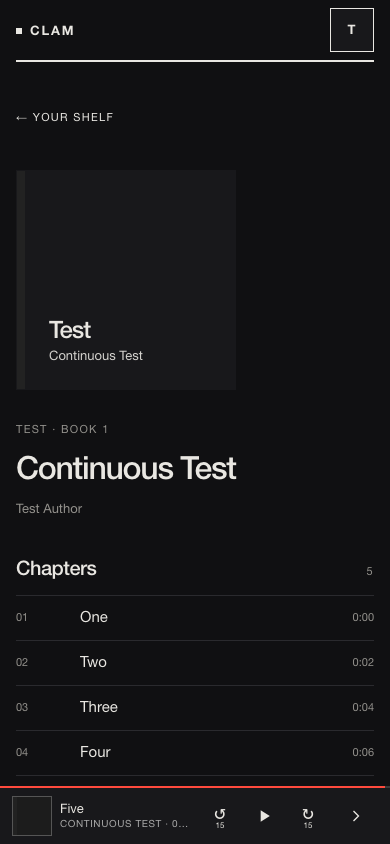
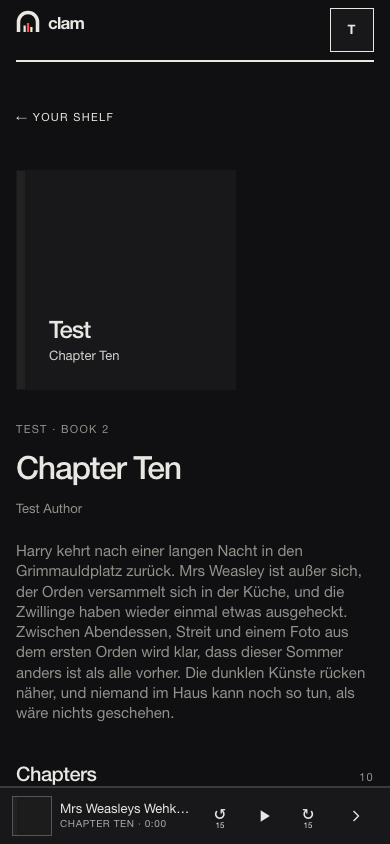
Fold book description and chapter list

diff --git a/clam-web/src/pages/Book.tsx b/clam-web/src/pages/Book.tsx
@@ -1,4 +1,4 @@
-import { useEffect } from 'react'
+import { useEffect, useRef, useState } from 'react'
 import type { Book as BookType } from '../types'
 import { clock } from '../lib/progress'
 import { navigate } from '../lib/router'
@@ -12,12 +12,48 @@ interface BookProps {
 
 export function Book({ book }: BookProps) {
   const player = usePlayer()
+  const [descriptionOpen, setDescriptionOpen] = useState(false)
+  const [descriptionCanExpand, setDescriptionCanExpand] = useState(false)
+  const [chaptersOpen, setChaptersOpen] = useState(false)
+  const description = useRef<HTMLButtonElement>(null)
+  const chapterAnchor = useRef<HTMLLIElement>(null)
 
   useEffect(() => {
     if (!player.book) void player.prepare(book, { restore: true })
     // Prime the mini player for the book page, exactly as the old client did.
     // eslint-disable-next-line react-hooks/exhaustive-deps
   }, [book.id])
+
+  useEffect(() => {
+    setDescriptionOpen(false)
+    setChaptersOpen(false)
+  }, [book.id])
+
+  useEffect(() => {
+    if (descriptionOpen) return
+    const element = description.current
+    if (!element) return
+    const measure = () => setDescriptionCanExpand(element.scrollHeight > element.clientHeight + 1)
+    measure()
+    const observer = new ResizeObserver(measure)
+    observer.observe(element)
+    return () => observer.disconnect()
+  }, [book.description, descriptionOpen])
+
+  const currentIndex = player.book?.id === book.id ? Math.max(0, Math.min(book.chapters.length - 1, player.chapter)) : -1
+  const anchorIndex = currentIndex >= 0 ? currentIndex : 0
+  const folded = currentIndex >= 0
+    ? [currentIndex - 1, currentIndex, currentIndex + 1].filter((index) => index >= 0 && index < book.chapters.length)
+    : [0]
+  const chapterIndices = chaptersOpen ? book.chapters.map((_, index) => index) : folded
+
+  useEffect(() => {
+    if (!chaptersOpen) return
+    const frame = window.requestAnimationFrame(() => {
+      chapterAnchor.current?.scrollIntoView({ block: 'start' })
+    })
+    return () => window.cancelAnimationFrame(frame)
+  }, [chaptersOpen, currentIndex, book.id])
 
   return (
     <main className="mx-auto max-w-[calc(72rem+32px)] px-4 pt-8 pb-8">
@@ -38,33 +74,76 @@ export function Book({ book }: BookProps) {
             {book.authors.join(', ') || 'Unknown author'}
             {book.narrator ? ` · read by ${book.narrator}` : ''}
           </p>
-          {book.description ? <p className="mt-6 max-w-[58ch] text-muted">{book.description}</p> : null}
+          {book.description ? (
+            <div className="book-description mt-6">
+              <button
+                ref={description}
+                type="button"
+                className={`book-description__text${descriptionOpen ? '' : ' is-clamped'}`}
+                aria-expanded={descriptionCanExpand ? descriptionOpen : undefined}
+                onClick={() => {
+                  if (descriptionCanExpand) setDescriptionOpen((value) => !value)
+                }}
+              >
+                {book.description}
+              </button>
+              {descriptionCanExpand ? (
+                <button
+                  type="button"
+                  className="book-description__more"
+                  aria-expanded={descriptionOpen}
+                  onClick={() => setDescriptionOpen((value) => !value)}
+                >
+                  {descriptionOpen ? 'Show less' : '…'}
+                </button>
+              ) : null}
+            </div>
+          ) : null}
 
           <section className="mt-10">
             <div className="flex items-baseline justify-between gap-4 pb-4">
-              <h2 className="text-[clamp(20px,3vw,28px)] font-medium leading-[1.05] tracking-[-0.025em]">Chapters</h2>
+              <button
+                type="button"
+                className="chapter-toggle flex min-h-11 items-baseline gap-3 text-left"
+                aria-expanded={chaptersOpen}
+                aria-controls="book-chapter-list"
+                onClick={() => setChaptersOpen((value) => !value)}
+              >
+                <h2 className="text-[clamp(20px,3vw,28px)] font-medium leading-[1.05] tracking-[-0.025em]">Chapters</h2>
+                <span className="text-[clamp(20px,3vw,28px)] font-normal leading-none text-muted" aria-hidden="true">
+                  {chaptersOpen ? '−' : '+'}
+                </span>
+              </button>
               <p className="micro">{book.chapters.length || 0}</p>
             </div>
             {book.chapters.length ? (
-              <ol className="border-t border-hair">
-                {book.chapters.map((chapter, index) => (
-                  <li key={index} className="chapter-row border-b border-hair">
-                    <button
-                      type="button"
-                      className="chapter-main grid min-h-11 w-full grid-cols-[3rem_1fr_auto] items-center gap-4 bg-transparent py-2 text-left text-ink hover:bg-surface-2"
-                      aria-current={player.book?.id === book.id && index === player.chapter ? 'true' : undefined}
-                      onClick={() => {
-                        void player.prepare(book, { chapterIndex: index, restore: false, autoplay: true })
-                        navigate(`/play/${book.id}?chapter=${index + 1}&autoplay=1`)
-                      }}
+              <ol id="book-chapter-list" className="border-t border-hair">
+                {chapterIndices.map((index) => {
+                  const chapter = book.chapters[index]
+                  const isCurrent = currentIndex === index
+                  return (
+                    <li
+                      key={index}
+                      ref={index === anchorIndex ? chapterAnchor : undefined}
+                      className="chapter-row border-b border-hair"
                     >
-                      <span className="text-micro text-muted">{String(index + 1).padStart(2, '0')}</span>
-                      <span className="chapter-title text-body">{chapter.title}</span>
-                      <span className="text-micro text-muted tabular-nums">{clock(chapter.start / 1000)}</span>
-                    </button>
-                    <CacheButton book={book} index={index} />
-                  </li>
-                ))}
+                      <button
+                        type="button"
+                        className="chapter-main grid min-h-11 w-full grid-cols-[3rem_1fr_auto] items-center gap-4 bg-transparent py-2 text-left text-ink hover:bg-surface-2"
+                        aria-current={isCurrent ? 'true' : undefined}
+                        onClick={() => {
+                          void player.prepare(book, { chapterIndex: index, restore: false, autoplay: true })
+                          navigate(`/play/${book.id}?chapter=${index + 1}&autoplay=1`)
+                        }}
+                      >
+                        <span className="text-micro text-muted">{String(index + 1).padStart(2, '0')}</span>
+                        <span className="chapter-title text-body">{chapter.title}</span>
+                        <span className="text-micro text-muted tabular-nums">{clock(chapter.start / 1000)}</span>
+                      </button>
+                      <CacheButton book={book} index={index} />
+                    </li>
+                  )
+                })}
               </ol>
             ) : (
               <p className="text-muted">No chapters.</p>

diff --git a/clam-web/src/styles.css b/clam-web/src/styles.css
@@ -694,3 +694,57 @@
     color: var(--ink);
     font-weight: 500;
   }
+
+  .book-description {
+    max-width: 58ch;
+  }
+
+  .book-description__text {
+    display: block;
+    width: 100%;
+    padding: 0;
+    border: 0;
+    background: transparent;
+    color: var(--muted);
+    font: inherit;
+    line-height: 1.45;
+    text-align: left;
+    cursor: pointer;
+  }
+
+  .book-description__text.is-clamped {
+    display: -webkit-box;
+    overflow: hidden;
+    -webkit-box-orient: vertical;
+    -webkit-line-clamp: 2;
+  }
+
+  .book-description__more {
+    display: block;
+    min-height: 44px;
+    padding: 0;
+    border: 0;
+    background: transparent;
+    color: var(--muted);
+    font: inherit;
+    line-height: 1;
+    text-align: left;
+    cursor: pointer;
+  }
+
+  .chapter-toggle {
+    padding: 0;
+    border: 0;
+    background: transparent;
+    color: var(--ink);
+    cursor: pointer;
+  }
+
+  .chapter-toggle:hover {
+    text-decoration: underline;
+    text-underline-offset: 4px;
+  }
+
+  #book-chapter-list > li {
+    scroll-margin-top: 88px;
+  }

diff --git a/clam-web/ui/README.md b/clam-web/ui/README.md
@@ -1,31 +1,23 @@
 # Clam UI evidence
 
-R2 captures at 390×844. The `before` build is commit `6ffb5bc`; the `after`
-build is the current client, same synthetic book and the same local library.
+R2 captures at 390×844. The `before` build is commit `2ebe983`, the first
+build before the book-detail folding; the `after` build is the current client.
+All captures use the same synthetic book and the long fixture description.
 
 ```
-<theme>/book-390-before.png     old CLAM wordmark, no cache controls
-<theme>/book-390-after.png      new logo, red current chapter, cache controls
+<theme>/book-390-before.png     full description, full chapter list
+<theme>/book-390-after.png      two-line description + folded chapters
+paper/book-chapters-expanded-390-after.png
 paper/play-390-after.png        sleep timer / speed header, red current title
 paper/sleep-390-after.png       sleep-timer choices
 paper/cache-390-after.png       cached chapters grouped as books
 paper/cache-paused-390-after.png
 paper/cache-prompt-390-after.png
+paper/shelf-cache-390-after.png
 paper/account-390-after.png     Auto style control
+paper/transcript-390-after.png  sentence transcript, current sentence in ink
+paper/transcript-fallback-390-after.png
+night/transcript-390-after.png
 ```
 
 The current transcript sentence is ink; surrounding rows are muted grey.
-
-The new sleep, speed and cache-management surfaces have no earlier equivalent;
-the Book pair is the direct before/after for the logo and chapter states.
-
-The Shelf capture also shows the `Cache 2` button beside `Arrange`; `sleep-active`
-shows the active 15-minute countdown.
-
-Sleep fade and Media Session are behaviour-only captures: the fade is the last
-20 seconds of the sleep timer / chapter, and Media Session updates chapter
-metadata, position and previous/next actions from the same player state.
-
-`transcript-390-after.png` is HP5 chapter 10 at the Fred/George passage:
-565 EPUB sentences, each a separate row, with the current sentence in ink; `transcript-fallback-390-after.png` is a chapter without a subtitle
-file, showing the normal book-description placeholder.
